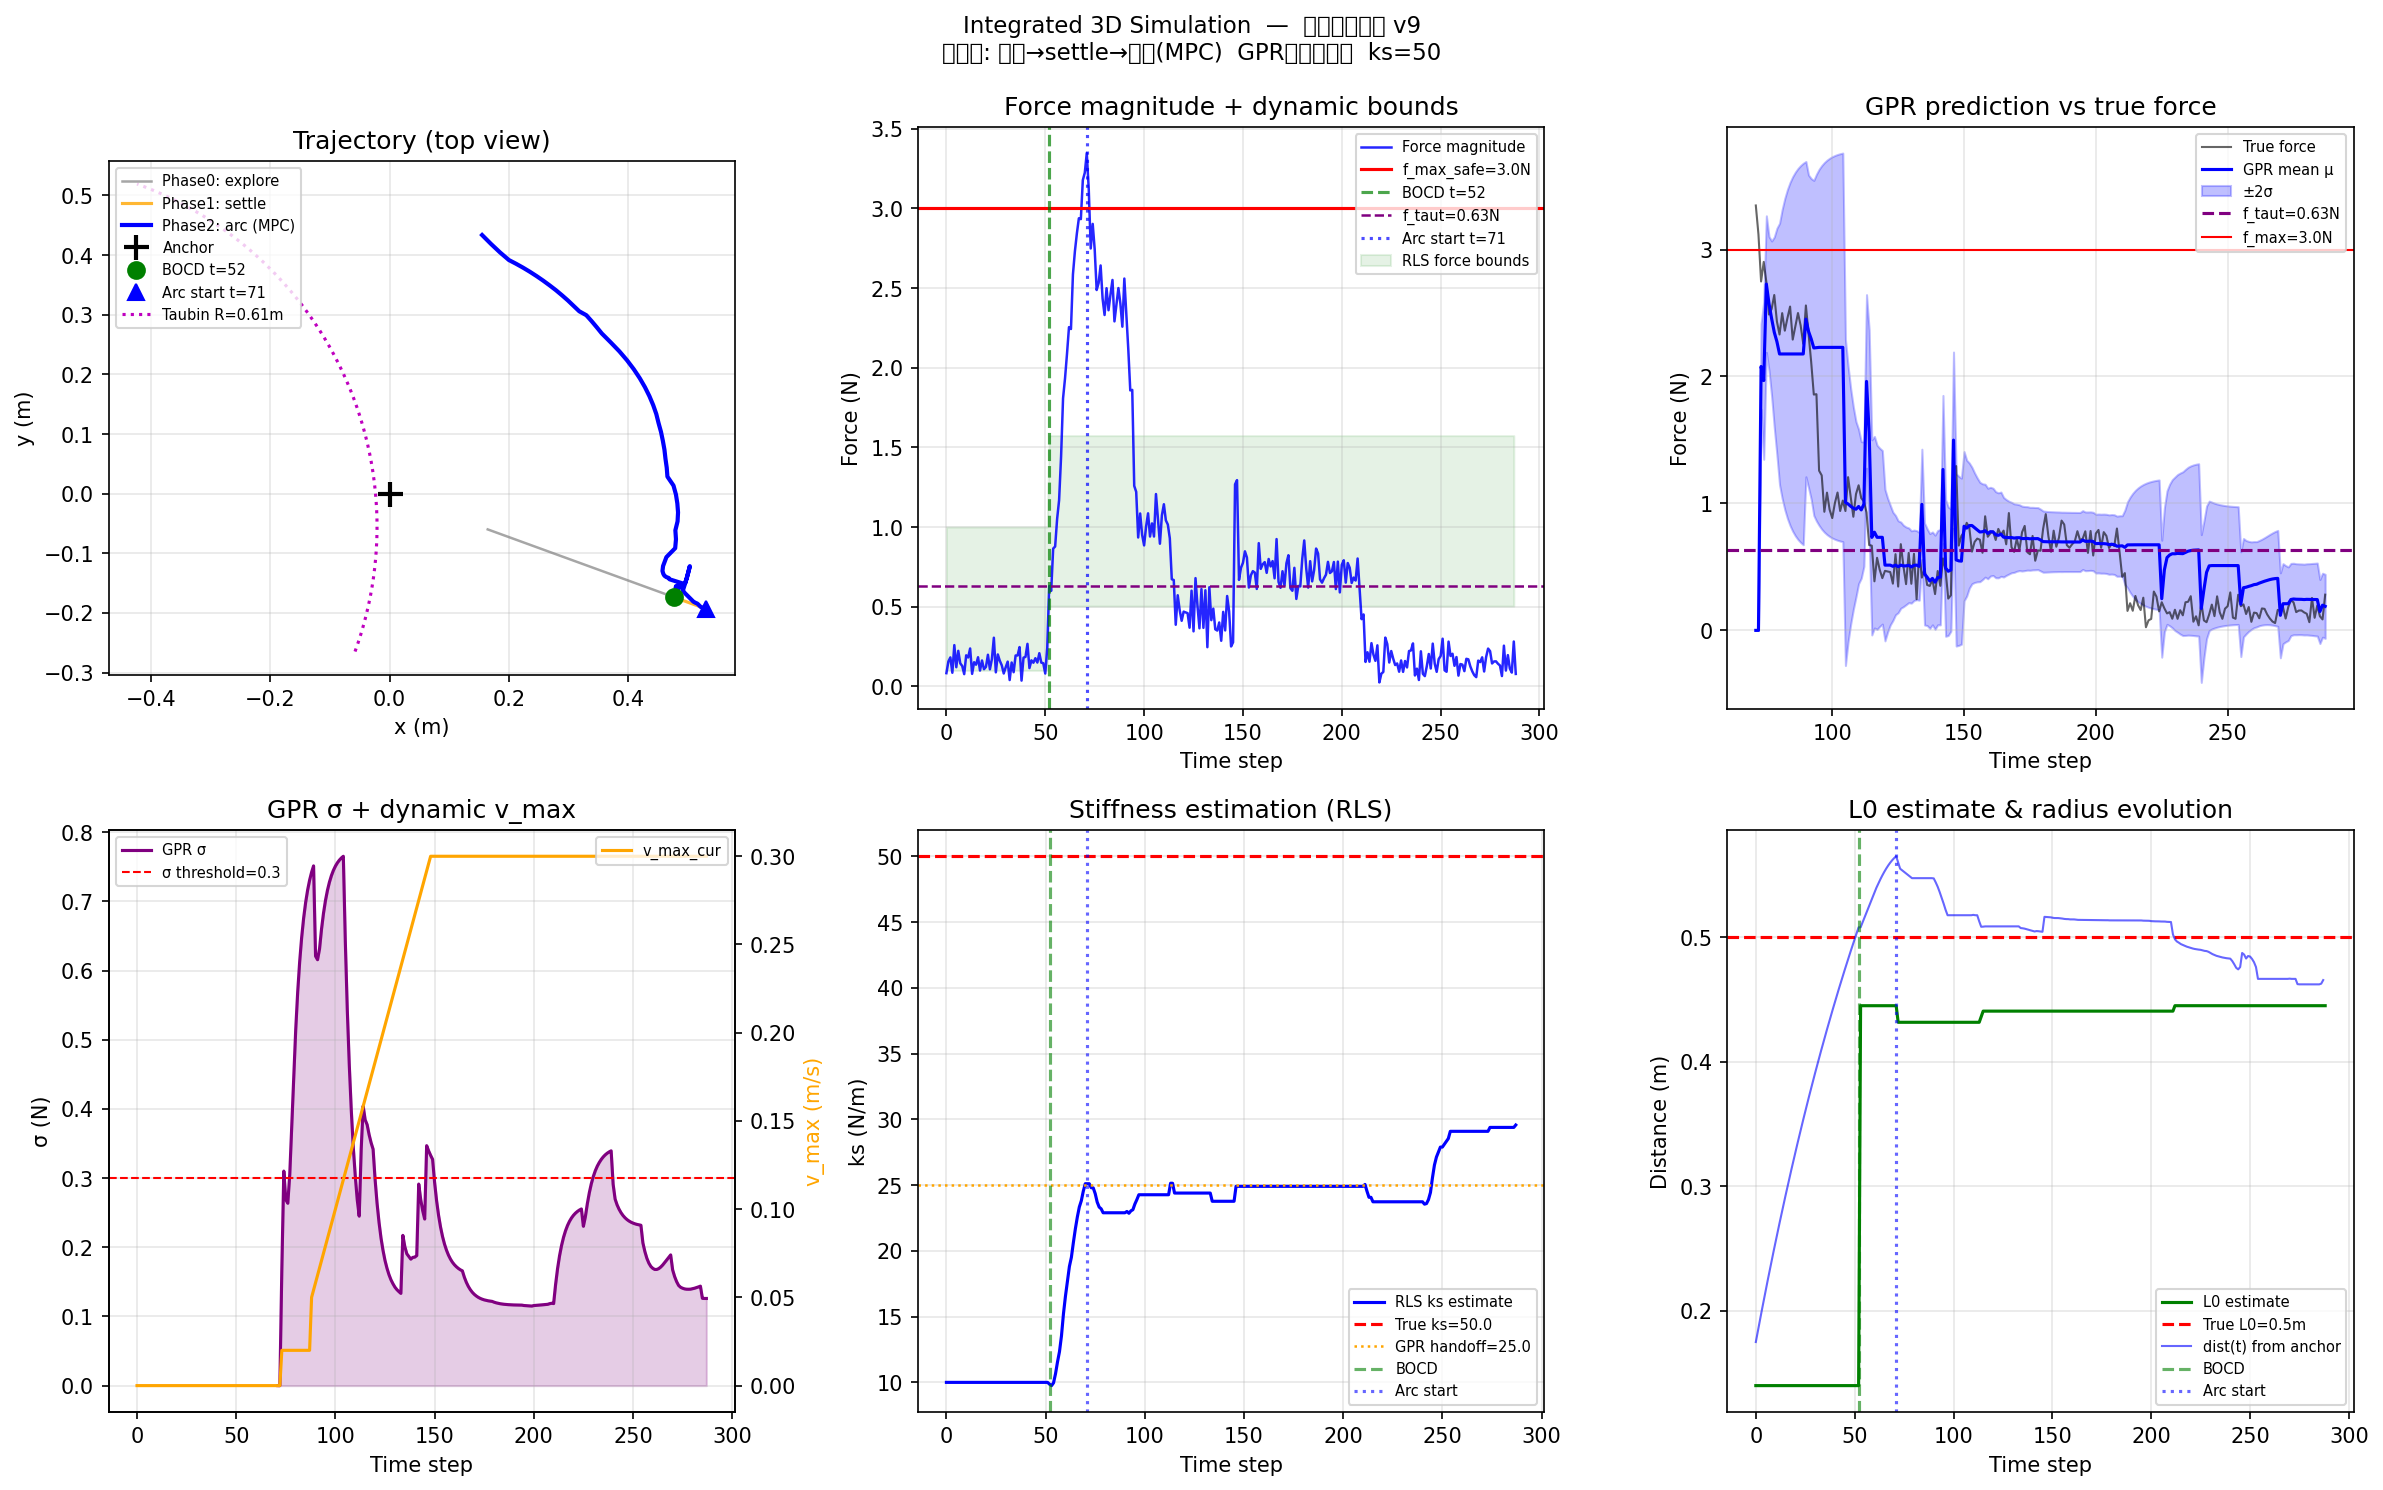
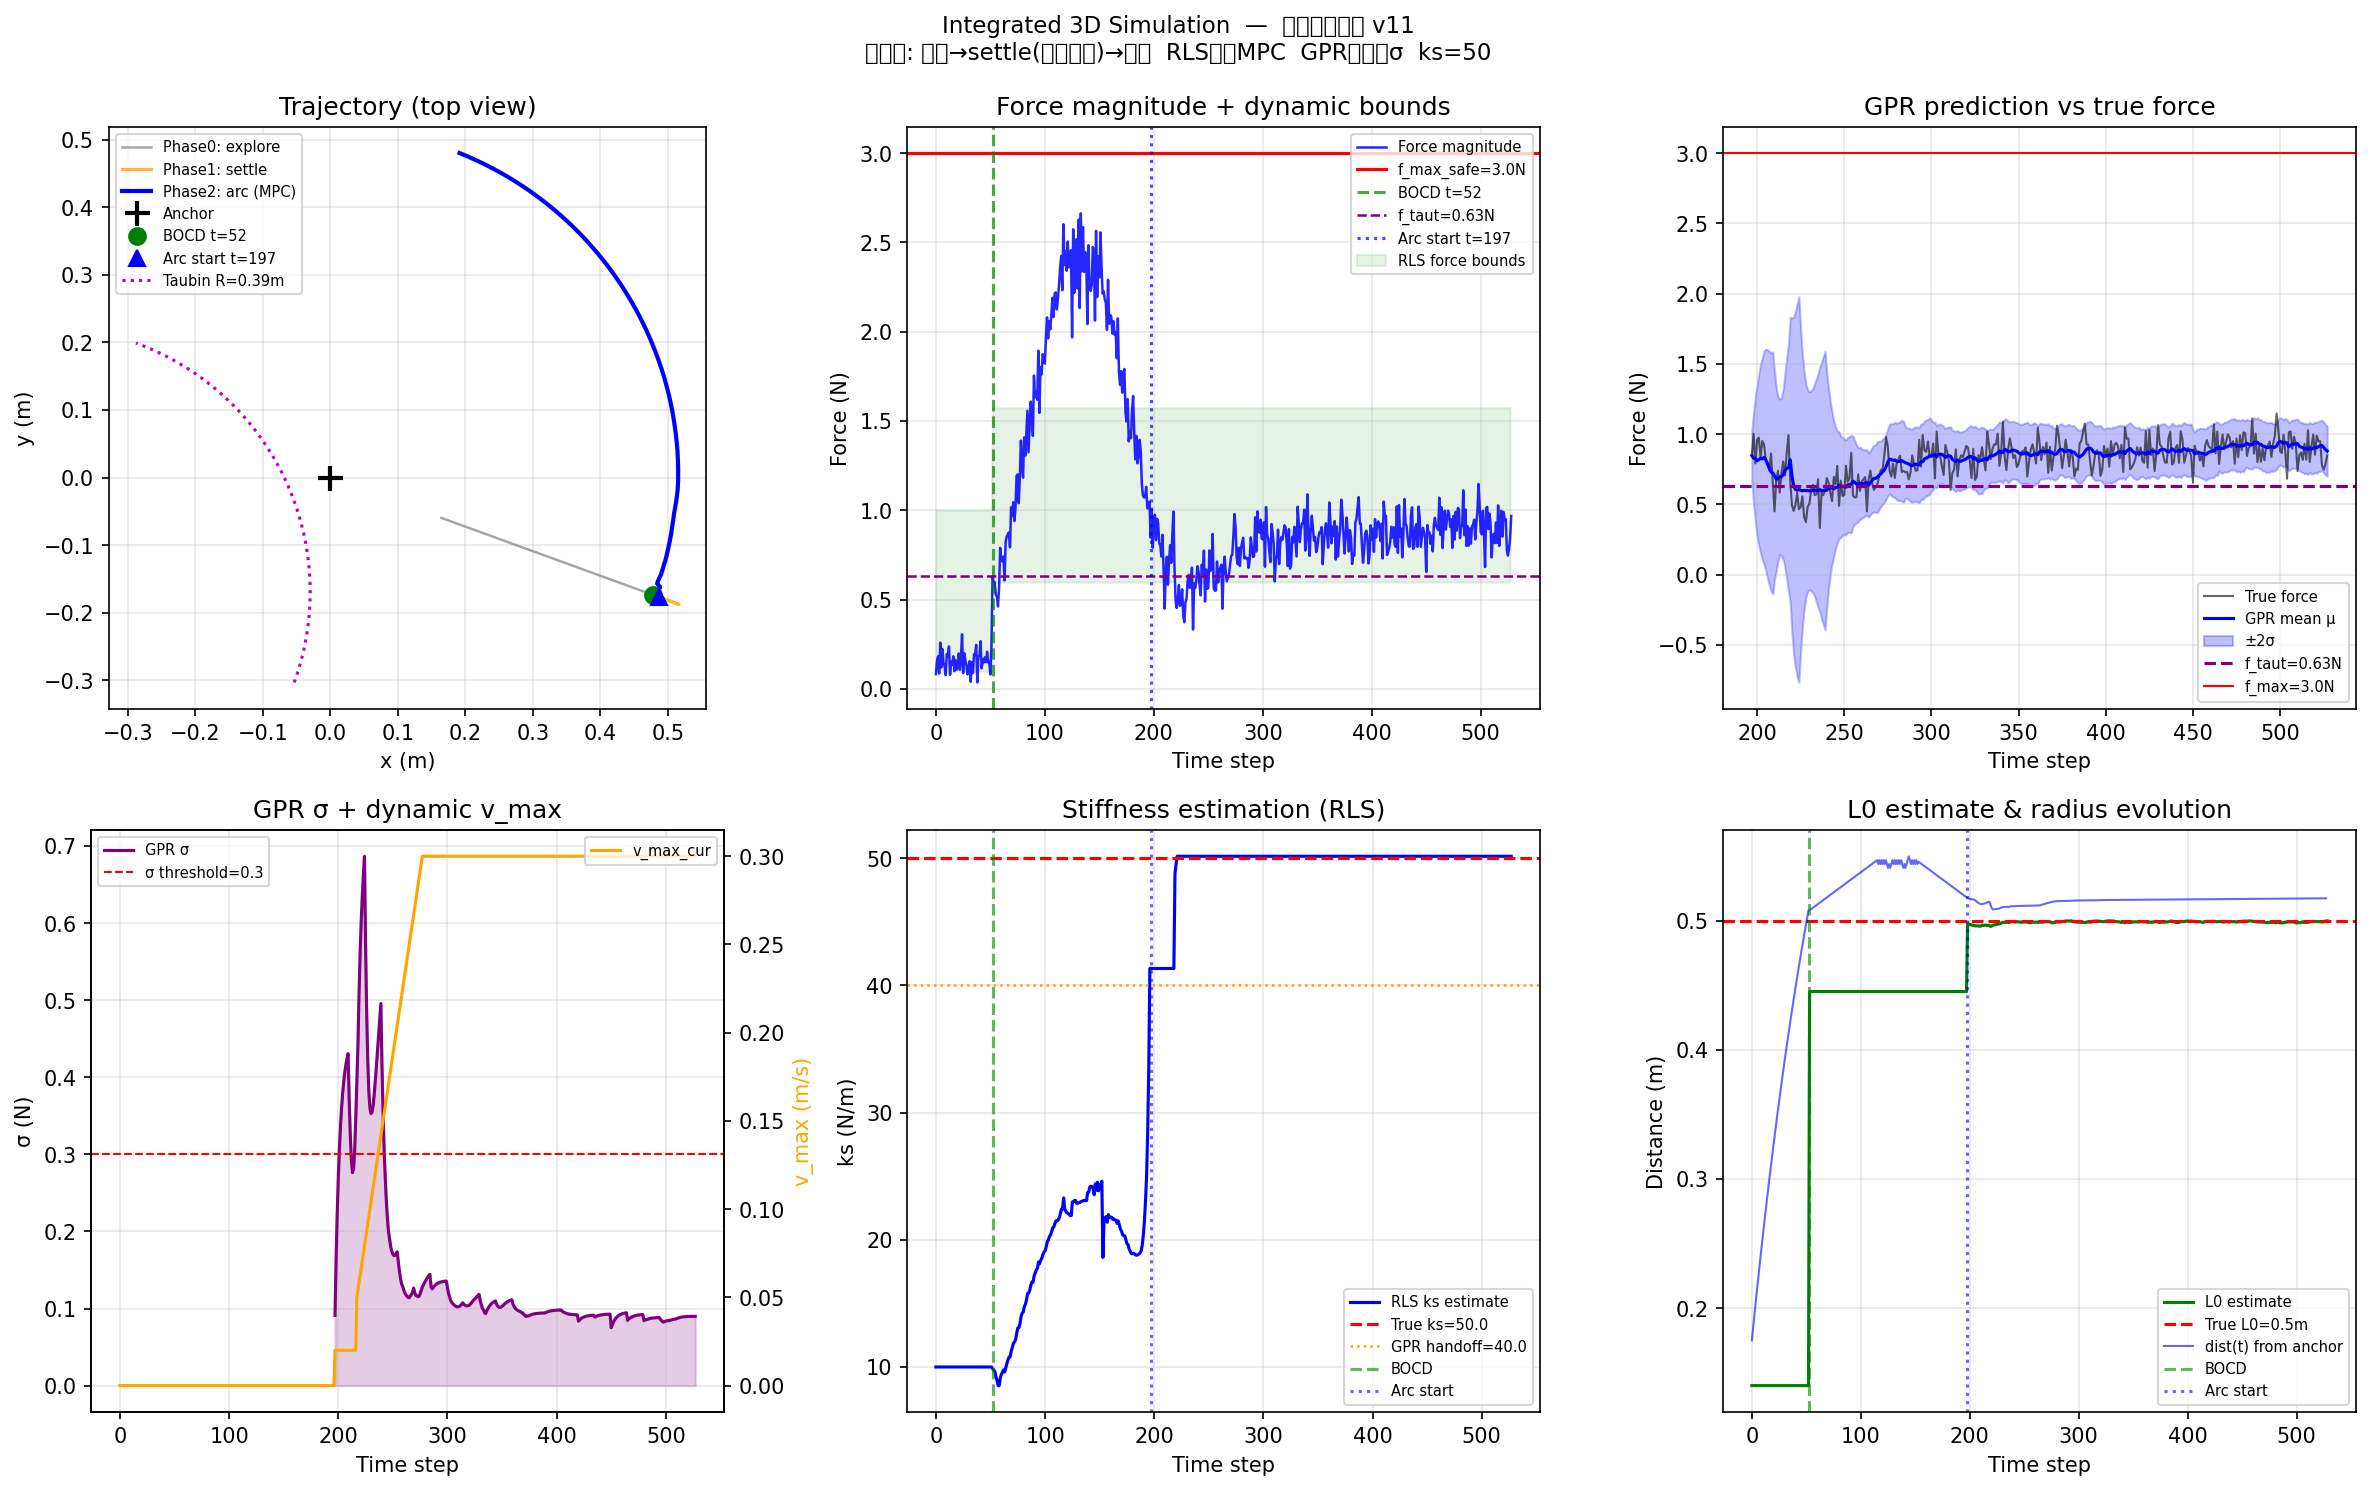
v11-1, best so far

diff --git a/integrated_sim_3d.py b/integrated_sim_3d.py
@@ -1,13 +1,13 @@
 """
-Integrated 3D Simulation — 大纲四层架构 v9
+Integrated 3D Simulation — 大纲四层架构 v11
 
-修改（相对 v8）：
-1. GPR 真正作为 MPC 主预测模型
-   - MPC 的 pf() 直接调用 gpr.predict()，不再经过 ks*stretch 弹簧公式
-   - GPR ready 前用 RLS 弹簧模型作为 fallback
-   - σ 直接作为 Tube-MPC 约束收紧依据，无需 local_ks 数值微分
-2. RLS 退出主预测流程，arc 阶段加 stretch 门控防止无激励漂移
-3. v8 的其他改动保留：径向约束、arc 预热、区间中点吸引、v_prev 修复
+修改（相对 v9）：
+1. RLS 直接驱动 MPC：pf 和 pf_fast 合并为同一个弹簧模型，消除约束不一致
+2. GPR 退回 Tube-MPC 角色：只提供 σ 收紧 f_max_eff，不参与力点预测
+3. settle 阶段改为径向拉伸扫描：从 L0_est 开始推到 stretch≈0.1m 再收回
+   临床意义：治疗师接触后做完整阻力评估，给 RLS 宽范围激励
+4. f_lower 提高到 f_taut：绷直作为硬约束
+5. 去掉速度惩罚项 W_INPUT
 """
 import matplotlib
 matplotlib.use('Agg')
@@ -52,7 +52,7 @@ def true_force_3d(p, vel=0.0, acc=0.0):
 # ══════════════════════════════════════════════════════
 W_FORCE  = 30.0
 W_TIME   = 0.5
-W_INPUT  = 0.05
+W_INPUT  = 0.0   # 临床场景不需要速度约束，已移除
 W_ANGLE  = 10.0
 V_MAX    = 0.3
 V_MIN    = 0.05
@@ -60,21 +60,21 @@ V_RAMP   = 60
 MPC_N    = 6
 
 # ── 径向约束参数 ─────────────────────────────────────────
-R_TOL        = 0.04   # 允许径向偏差 ±4cm
-R_REF_UPDATE = 20     # 每隔多少步更新一次 R_ref
+R_TOL        = 0.04
+R_REF_UPDATE = 20
 
 # ── Arc 早期安全预热 ─────────────────────────────────────
-# 临床意义：刚开始牵引时先轻推，确认方向和阻力正常再正式发力
-ARC_WARMUP_STEPS = 15   # 预热步数
-V_WARMUP         = 0.02  # 预热阶段速度上限 (m/s)
+ARC_WARMUP_STEPS = 20
+V_WARMUP         = 0.02
 
 # ── Settle 阶段参数 ──────────────────────────────────────
-# 临床含义：评估性触诊，小幅径向往返激励 RLS 收敛
-SETTLE_STEPS      = 180   # settle 阶段最大步数（临床可接受：5秒@20Hz）
-SETTLE_AMP        = 0.06  # 径向往返幅度 (m)，临床场景可压缩到 0.01
-SETTLE_SPEED      = 0.08  # settle 阶段速度 (m/s)
-KS_MIN_FOR_GPR    = 25.0  # RLS ks 估计超过此值才允许 GPR 接管（真值的 50%）
-GPR_MIN_DATA      = 20    # GPR 接管所需最小数据点数
+# 临床含义：治疗师接触后做完整阻力评估，从自然长度推到最大安全 stretch 再收回
+# 给 RLS 提供宽范围激励（stretch 0→0.10m），比正弦往返收敛快
+SETTLE_STEPS      = 160   # 给 RLS 更充分的时间收敛到真值附近
+SETTLE_AMP        = 0.05  # 安全拉伸幅度：f_max_safe/ks ≈ 3/50 = 0.06m，留裕量取 0.05
+SETTLE_SPEED      = 0.06  # settle 运动速度 (m/s)
+KS_MIN_FOR_GPR    = 40.0  # RLS 收敛门槛（真值 50 的 80%）
+GPR_MIN_DATA      = 20
 
 # ══════════════════════════════════════════════════════
 # BOCD
@@ -130,7 +130,7 @@ class RLS:
         return self.theta.copy()
 
     def force_bounds(self, f_taut):
-        f_lower = 0.8 * f_taut
+        f_lower = 0.95 * f_taut                 # 接近绷直，留小余量防止约束不可行
         f_upper = min(2.5 * f_taut, f_max_safe)
         return f_lower, f_upper
 
@@ -198,8 +198,7 @@ def run_mpc_3d(p_cur, v_cur, ks_eff, b_rls, m_rls,
                anchor_est, L0_est,
                theta_cur, theta_target,
                f_taut, f_lower, f_upper,
-               sigma_gpr=0., v_max_cur=0.1, R_ref=None,
-               gpr_model=None, gpr_ready=False):
+               sigma_gpr=0., v_max_cur=0.1, R_ref=None):
 
     f_max_eff = f_upper - 2.0*np.clip(sigma_gpr, 0., 0.5)
     f_max_eff = max(f_max_eff, f_taut*1.1)
@@ -208,36 +207,25 @@ def run_mpc_3d(p_cur, v_cur, ks_eff, b_rls, m_rls,
         R_ref = np.linalg.norm(p_cur - anchor_est)
 
     def pf(p_, v_, a_):
-        """GPR ready 时直接用 GPR 预测力，否则用 RLS 弹簧模型（用于代价函数）"""
-        dist_ = np.linalg.norm(p_ - anchor_est)
-        stretch_ = max(0., dist_ - L0_est)
-        vs_ = np.linalg.norm(v_)
-        theta_ = np.arctan2(p_[1]-anchor_est[1], p_[0]-anchor_est[0])
-        if gpr_ready and gpr_model is not None:
-            mu, _ = gpr_model.predict(stretch_, vs_, theta_)
-            if mu is not None:
-                return max(0., mu)
-        return max(0., ks_eff*stretch_ + b_rls*vs_ + m_rls*np.linalg.norm(a_))
-
-    def pf_fast(p_, v_, a_):
-        """轻量弹簧模型，用于约束函数（避免约束评估时反复调用 GPR）"""
+        """统一力预测：RLS 弹簧模型
+        GPR 退回 Tube-MPC 角色，只提供 σ 收紧 f_max_eff，不参与力点预测
+        代价函数和约束函数使用同一模型，消除不一致"""
         stretch_ = max(0., np.linalg.norm(p_-anchor_est) - L0_est)
         return max(0., ks_eff*stretch_ + b_rls*np.linalg.norm(v_) + m_rls*np.linalg.norm(a_))
 
+    pf_fast = pf  # 两者完全一致
+
     def cost(u_flat):
         u_seq=u_flat.reshape(MPC_N,3); p=p_cur.copy(); v=v_cur.copy(); c=0.
-        f_mid = (f_lower + f_max_eff) / 2.0   # 区间中点
-        W_MID = 2.0                             # 轻微吸引，远小于边界惩罚
+        f_mid = 0.7*f_lower + 0.3*f_max_eff  # 偏向绷直下界，倾向在刚绷直状态工作
+        W_MID = 3.0
         for k in range(MPC_N):
             vk=u_seq[k]; ak=(vk-v)/dt; pn=p+dt*vk
             f_pred = pf(pn, vk, ak)
-            # 单边硬惩罚：越界才强惩罚
             c += W_FORCE * max(0, f_lower - f_pred) ** 2
             c += W_FORCE * max(0, f_pred - f_max_eff) ** 2
-            # 轻微中点吸引：在可行域内给优化器方向感
             c += W_MID * (f_pred - f_mid) ** 2
             c += W_TIME
-            c += W_INPUT * float(np.dot(vk, vk))
             tn=np.arctan2(pn[1]-anchor_est[1], pn[0]-anchor_est[0])
             pg=tn-theta_cur
             if pg<-np.pi: pg+=2*np.pi
@@ -403,18 +391,27 @@ for t in range(T_sim):
         hks.append(rls.theta[0]); hgmu.append(0.); hgsig.append(0.)
         h_flower.append(f_lower); h_fupper.append(f_upper); h_vmax.append(0.)
 
-    # ── 阶段 1：Settle（小幅径向往返，激励 RLS） ────────
+    # ── 阶段 1：Settle（径向拉伸扫描，激励 RLS） ────────
     elif phase==1:
         dist = np.linalg.norm(p_cur-anchor_est)
         dn   = (p_cur-anchor_est)/(dist+1e-6)
-        # 以 settle_base_dist 为中心，正弦往返（2个完整周期）
-        phase_osc = 2 * np.pi * settle_steps_done / max(SETTLE_STEPS/2, 1)
-        target_dist = settle_base_dist + SETTLE_AMP * np.sin(phase_osc)
+
+        # 力安全检查：settle 阶段力接近上限时立即收回
+        # 临床意义：评估阻力时不能对患者施加危险力度
+        if fm > f_max_safe * 0.8:
+            target_dist = settle_base_dist  # 强制收回到基准距离
+        else:
+            half = SETTLE_STEPS / 2
+            if settle_steps_done < half:
+                target_dist = settle_base_dist + SETTLE_AMP * (settle_steps_done / half)
+            else:
+                target_dist = settle_base_dist + SETTLE_AMP * (2 - settle_steps_done / half)
+
         err = target_dist - dist
         u = dn * np.clip(err / dt, -SETTLE_SPEED, SETTLE_SPEED)
         settle_steps_done += 1
 
-        # RLS 更新（settle 阶段是主要激励窗口）
+        # RLS 更新（全程激励窗口）
         st  = max(0., dist - L0_est)
         vs  = np.linalg.norm(v_cur)
         ac  = np.linalg.norm((v_cur-v_prev)/dt)
@@ -423,7 +420,7 @@ for t in range(T_sim):
         f_lower, f_upper = rls.force_bounds(f_taut)
         f_upper = min(f_upper, f_max_safe)
 
-        # GPR 也开始积累数据（但还不接管控制）
+        # GPR 积累数据
         gpr.add_data(st, vs, theta_cur, fm)
         if len(gpr.X) >= 15 and t%5==0: gpr.fit()
 
@@ -453,19 +450,17 @@ for t in range(T_sim):
         if arc_steps % R_REF_UPDATE == 0:
             R_ref = 0.8 * R_ref + 0.2 * dist
 
-        # GPR 更新
+        # GPR 更新（只用于提供 σ 收紧约束）
         gpr.add_data(st, vs, theta_cur, fm)
         if t%15==0: gpr.fit()
-        mu, sr = gpr.predict(st, vs, theta_cur)
+        _, sr = gpr.predict(st, vs, theta_cur)
         if sr is None: sr=0.
-        mu_val = trls[0]*st if mu is None else mu
+        mu_val = trls[0]*st  # 显示用，用 RLS 线性估计
         sigma_s = 0.2*sr + 0.8*sigma_s
 
-        # GPR ready 条件：数据足够且已 fit
-        gpr_ready = gpr.fitted and (len(gpr.X) >= GPR_MIN_DATA)
         b_rls, m_rls = trls[1], trls[2]
 
-        # 动态速度上限：预热阶段极低速，之后线性爬升
+        # 动态速度上限
         if arc_steps < ARC_WARMUP_STEPS:
             v_max_cur = V_WARMUP
         else:
@@ -480,8 +475,7 @@ for t in range(T_sim):
                      theta_cur, theta_target,
                      f_taut, f_lower, f_upper,
                      sigma_gpr=sigma_s, v_max_cur=v_max_cur,
-                     R_ref=R_ref,
-                     gpr_model=gpr, gpr_ready=gpr_ready)
+                     R_ref=R_ref)
 
     hL0.append(L0_est); hphase.append(phase)
     v_prev=v_cur.copy(); v_cur=u.copy()
@@ -513,8 +507,8 @@ if arc_step is not None:
 # 绘图
 # ══════════════════════════════════════════════════════
 fig=plt.figure(figsize=(16,10))
-fig.suptitle("Integrated 3D Simulation  —  大纲四层架构 v9\n"
-             "三阶段: 探索→settle→弧线(MPC)  GPR主预测模型  ks=50",
+fig.suptitle("Integrated 3D Simulation  —  大纲四层架构 v11\n"
+             "三阶段: 探索→settle(拉伸扫描)→弧线  RLS驱动MPC  GPR仅提供σ  ks=50",
              fontsize=11, y=0.99)
 
 n=len(hf_a)